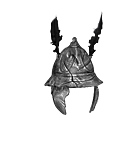
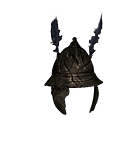
changelog update and wrong kettle fix

Changed region(s): [[0.3259, 0.0811, 0.7704, 0.7838]]

diff --git a/Changelog.md b/Changelog.md
@@ -33,6 +33,8 @@ This activates Dual Wield:
 - `Ballistics` now also increases range of handgonne
 - `Stick Fighting` now gives 16 matk, mdef and rdef when wielding a staff or a magic staff and 8 when wielding a hybrid staff or musical instrument
 - `Muscularity` now has no lower bound.
+- `Thrust Master` tooltip fixes
+- `Barrage` tooltip fixes
 
 ### One Handed Tree
 - no longer exists in short
@@ -63,6 +65,12 @@ Favoured Enemy - Civilization
 Favoured Enemy - Outlaw
 Favoured Enemy - Sword Master
 
+## Backgrounds
+- added new icons to gladiator prizefighter and pilgrim
+
+## Origins
+- ranger origin's druid rebalanced to use the regular druid background with extra talents and melee skill
+
 ## New enemies
 
 - Orc Tyrant - elite orc warlord, his warcry can cascade on other warlords
@@ -74,6 +82,7 @@ Favoured Enemy - Sword Master
 - Bandit Warlord is renamed to Robber Baron
 - Webknechts lose 10 rdef and 10 mdef on Legendary, but retain Dodge
 - Bandit Rabble should start being phased out by Bandit Thugs much quicker
+- Normalized Bandit Thug outfits by removing the highest one
 - Zombies will now have increased action points but will move slower on all terrains (like a reverse pathfinder)
 > Wiederganger 6 to 8;
 > Armored Wiederganger 6 to 8;
@@ -104,6 +113,11 @@ Favoured Enemy - Sword Master
 - named items naming fixes and changes
 - fixed beard/hair hiding while covering items are set to invisible
 - modified layering so some L2's go under L1
+- all tail items moved to lower vanity
+
+### Shields
+- added a few missing shield paints
+- fixed towershield paint to only the wooden part
 	
 ### Armors
 - added Studded Aketon
@@ -111,6 +125,7 @@ Favoured Enemy - Sword Master
 - description fixes and changes
 - named items naming fixes and changes
 - hyena fur, white wolf pelt, direwolf pelt upgrades reformed into cloaks
+- regular cloaks now displayed over upgrades
 
 ### Weapons
 
@@ -119,12 +134,13 @@ Favoured Enemy - Sword Master
 - `Horn Decorated Mace` - named mace, will appear on Runechosen
 - `Named Longsword` - named version of the longsword
 - `Blooddrinker` - Legendary Cleaver which will drop from the Mastaba
+- `Golden Cestus` - named version of the cestus
 
 #### New Weapon Abilities
 
 * Named Cleaver and sword riposte effects will no longer roll on named items
 
-**Infatry Axes**
+**Infantry Axes**
 - `Chop` is replaced with `Hack`
 > 40% armor penetration and 25% better chance to hit the head
 
@@ -197,8 +213,9 @@ Favoured Enemy - Sword Master
 * `Harvest` - two tile swing which applies 5-10 bleeding damage
 * `Decapitate` - unchanged
 
-**Crowsbows**
+**Crossbows**
 * gain `Piercing Shot` by default
+* `Strafing Shot` gains a new icon
 
 **Shortbows**
 
@@ -220,6 +237,7 @@ Favoured Enemy - Sword Master
 - possible fix for ai rotation crashes
 - fixed an error giving higher scaling to starts that have less than 3 characters
 - fixed an error with gear scaling using sell price instead of value
+- fixed incorrect time and item count tooltips on the camp screen
 
 ### For modders:
 